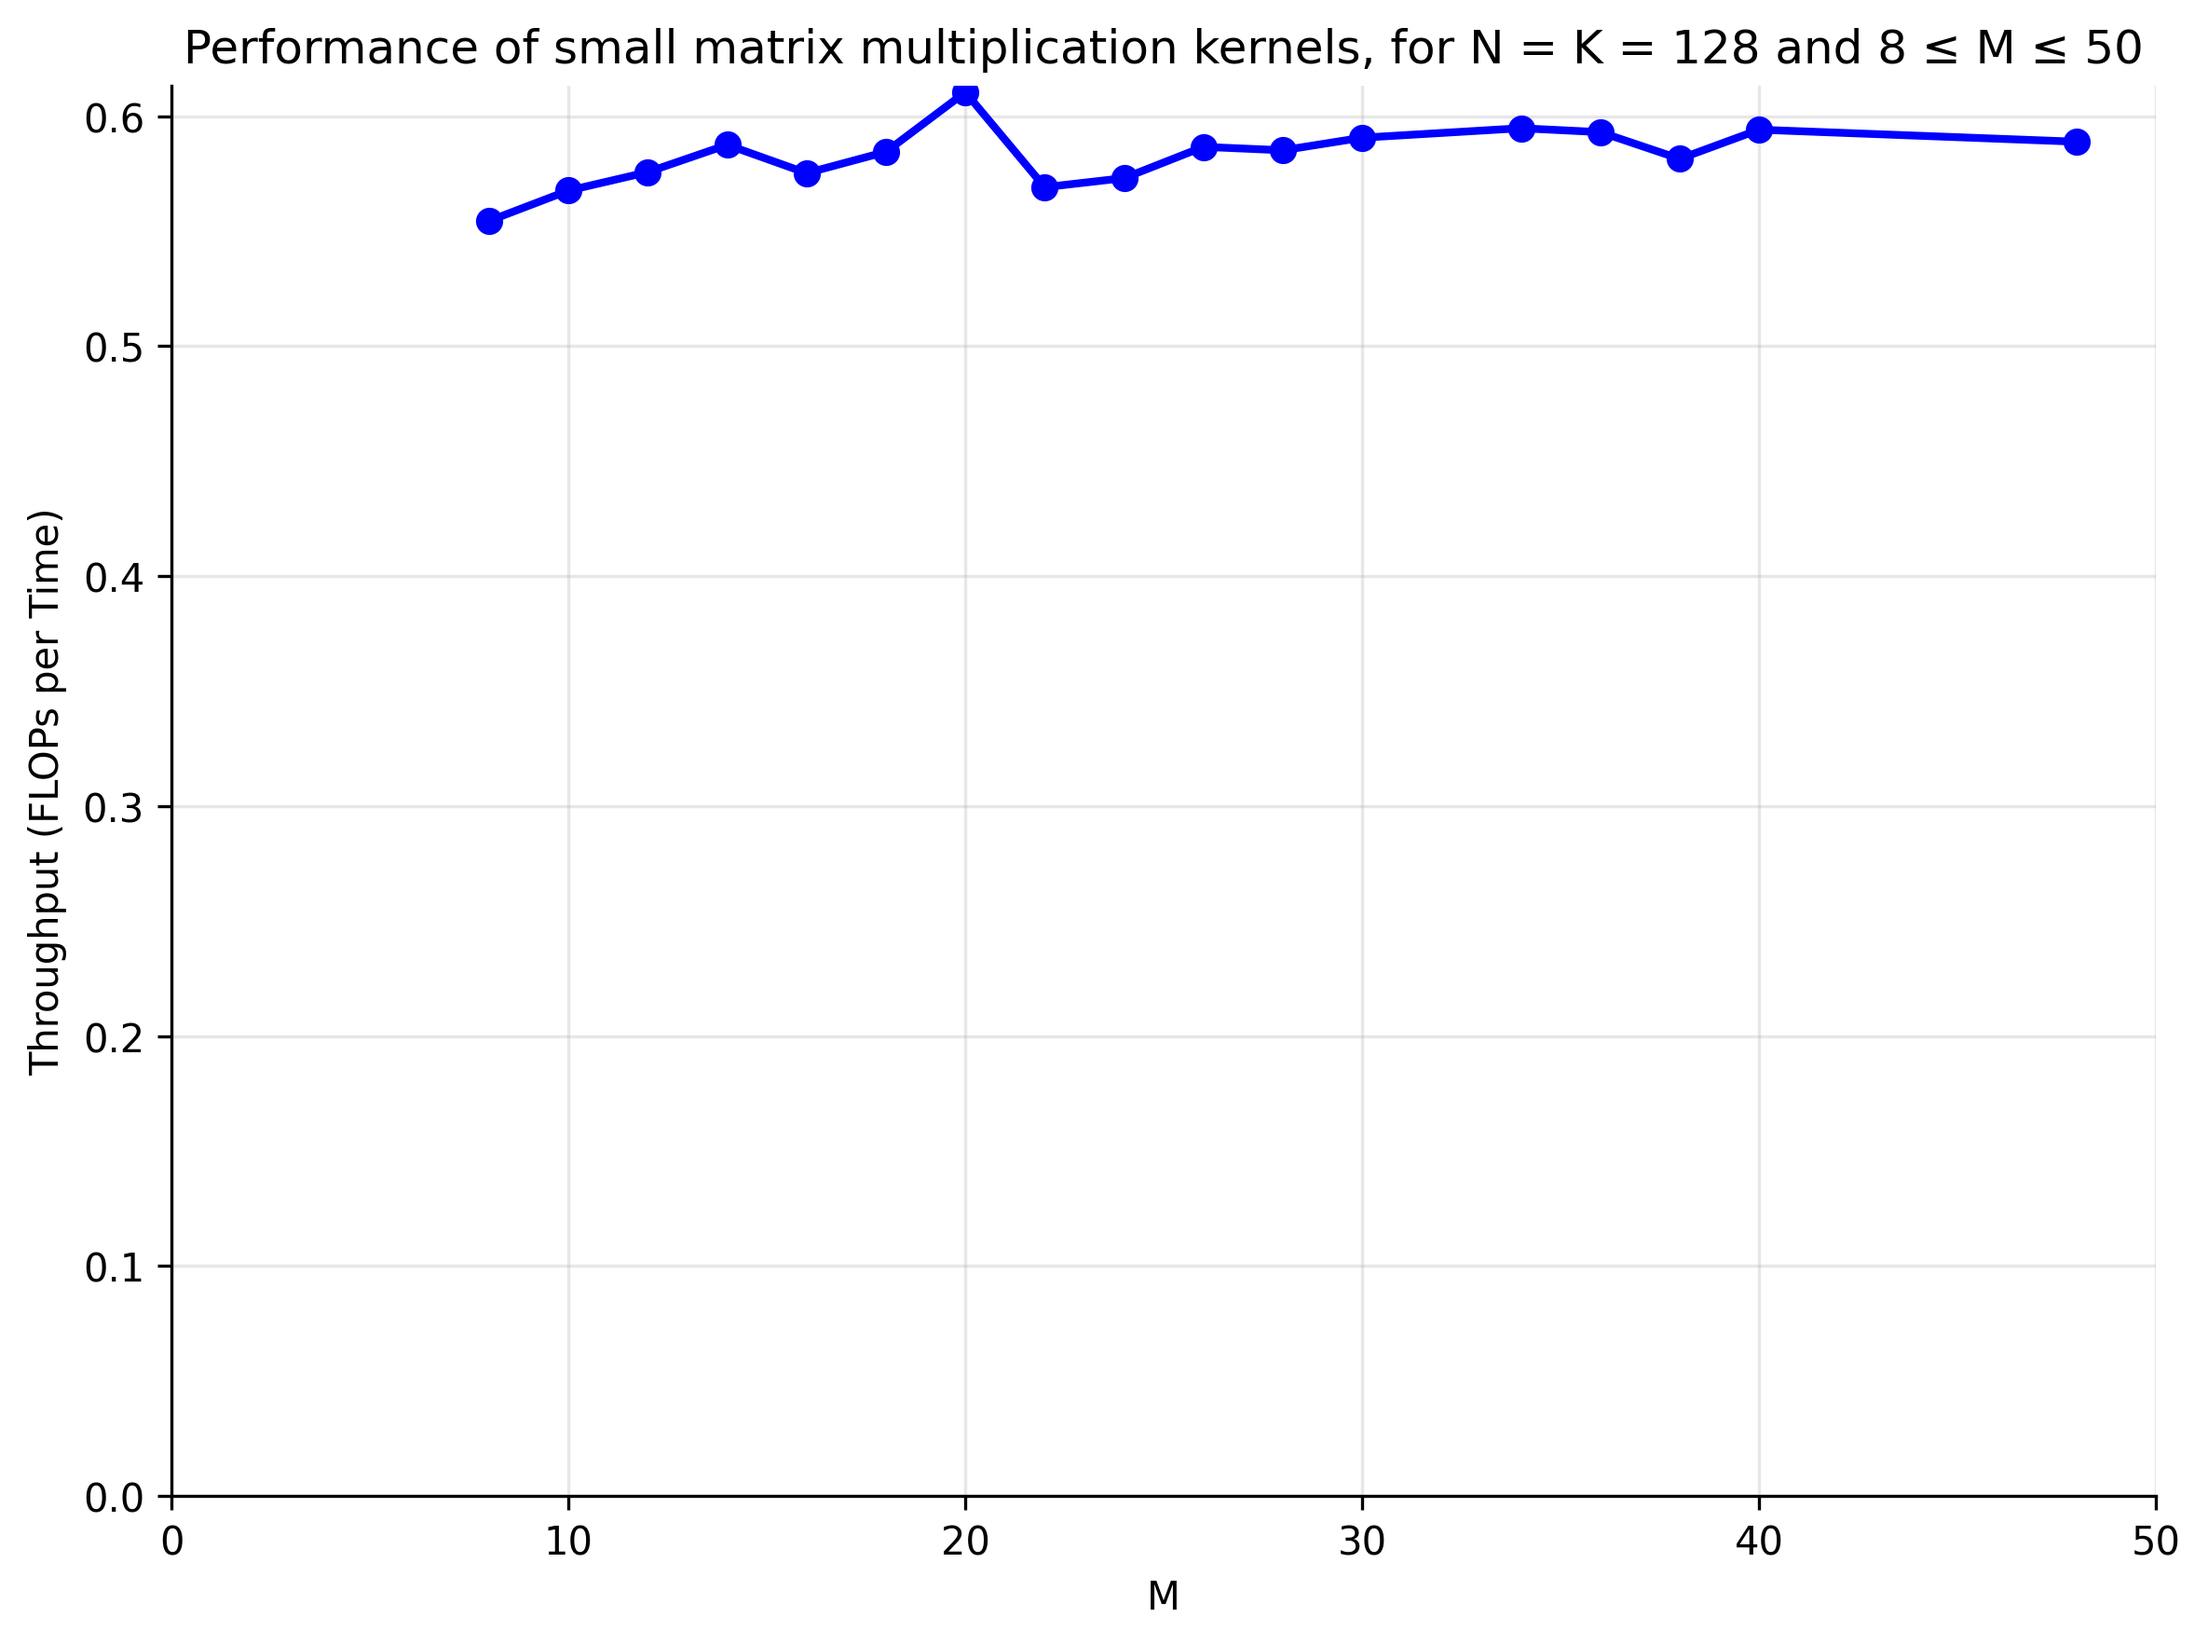
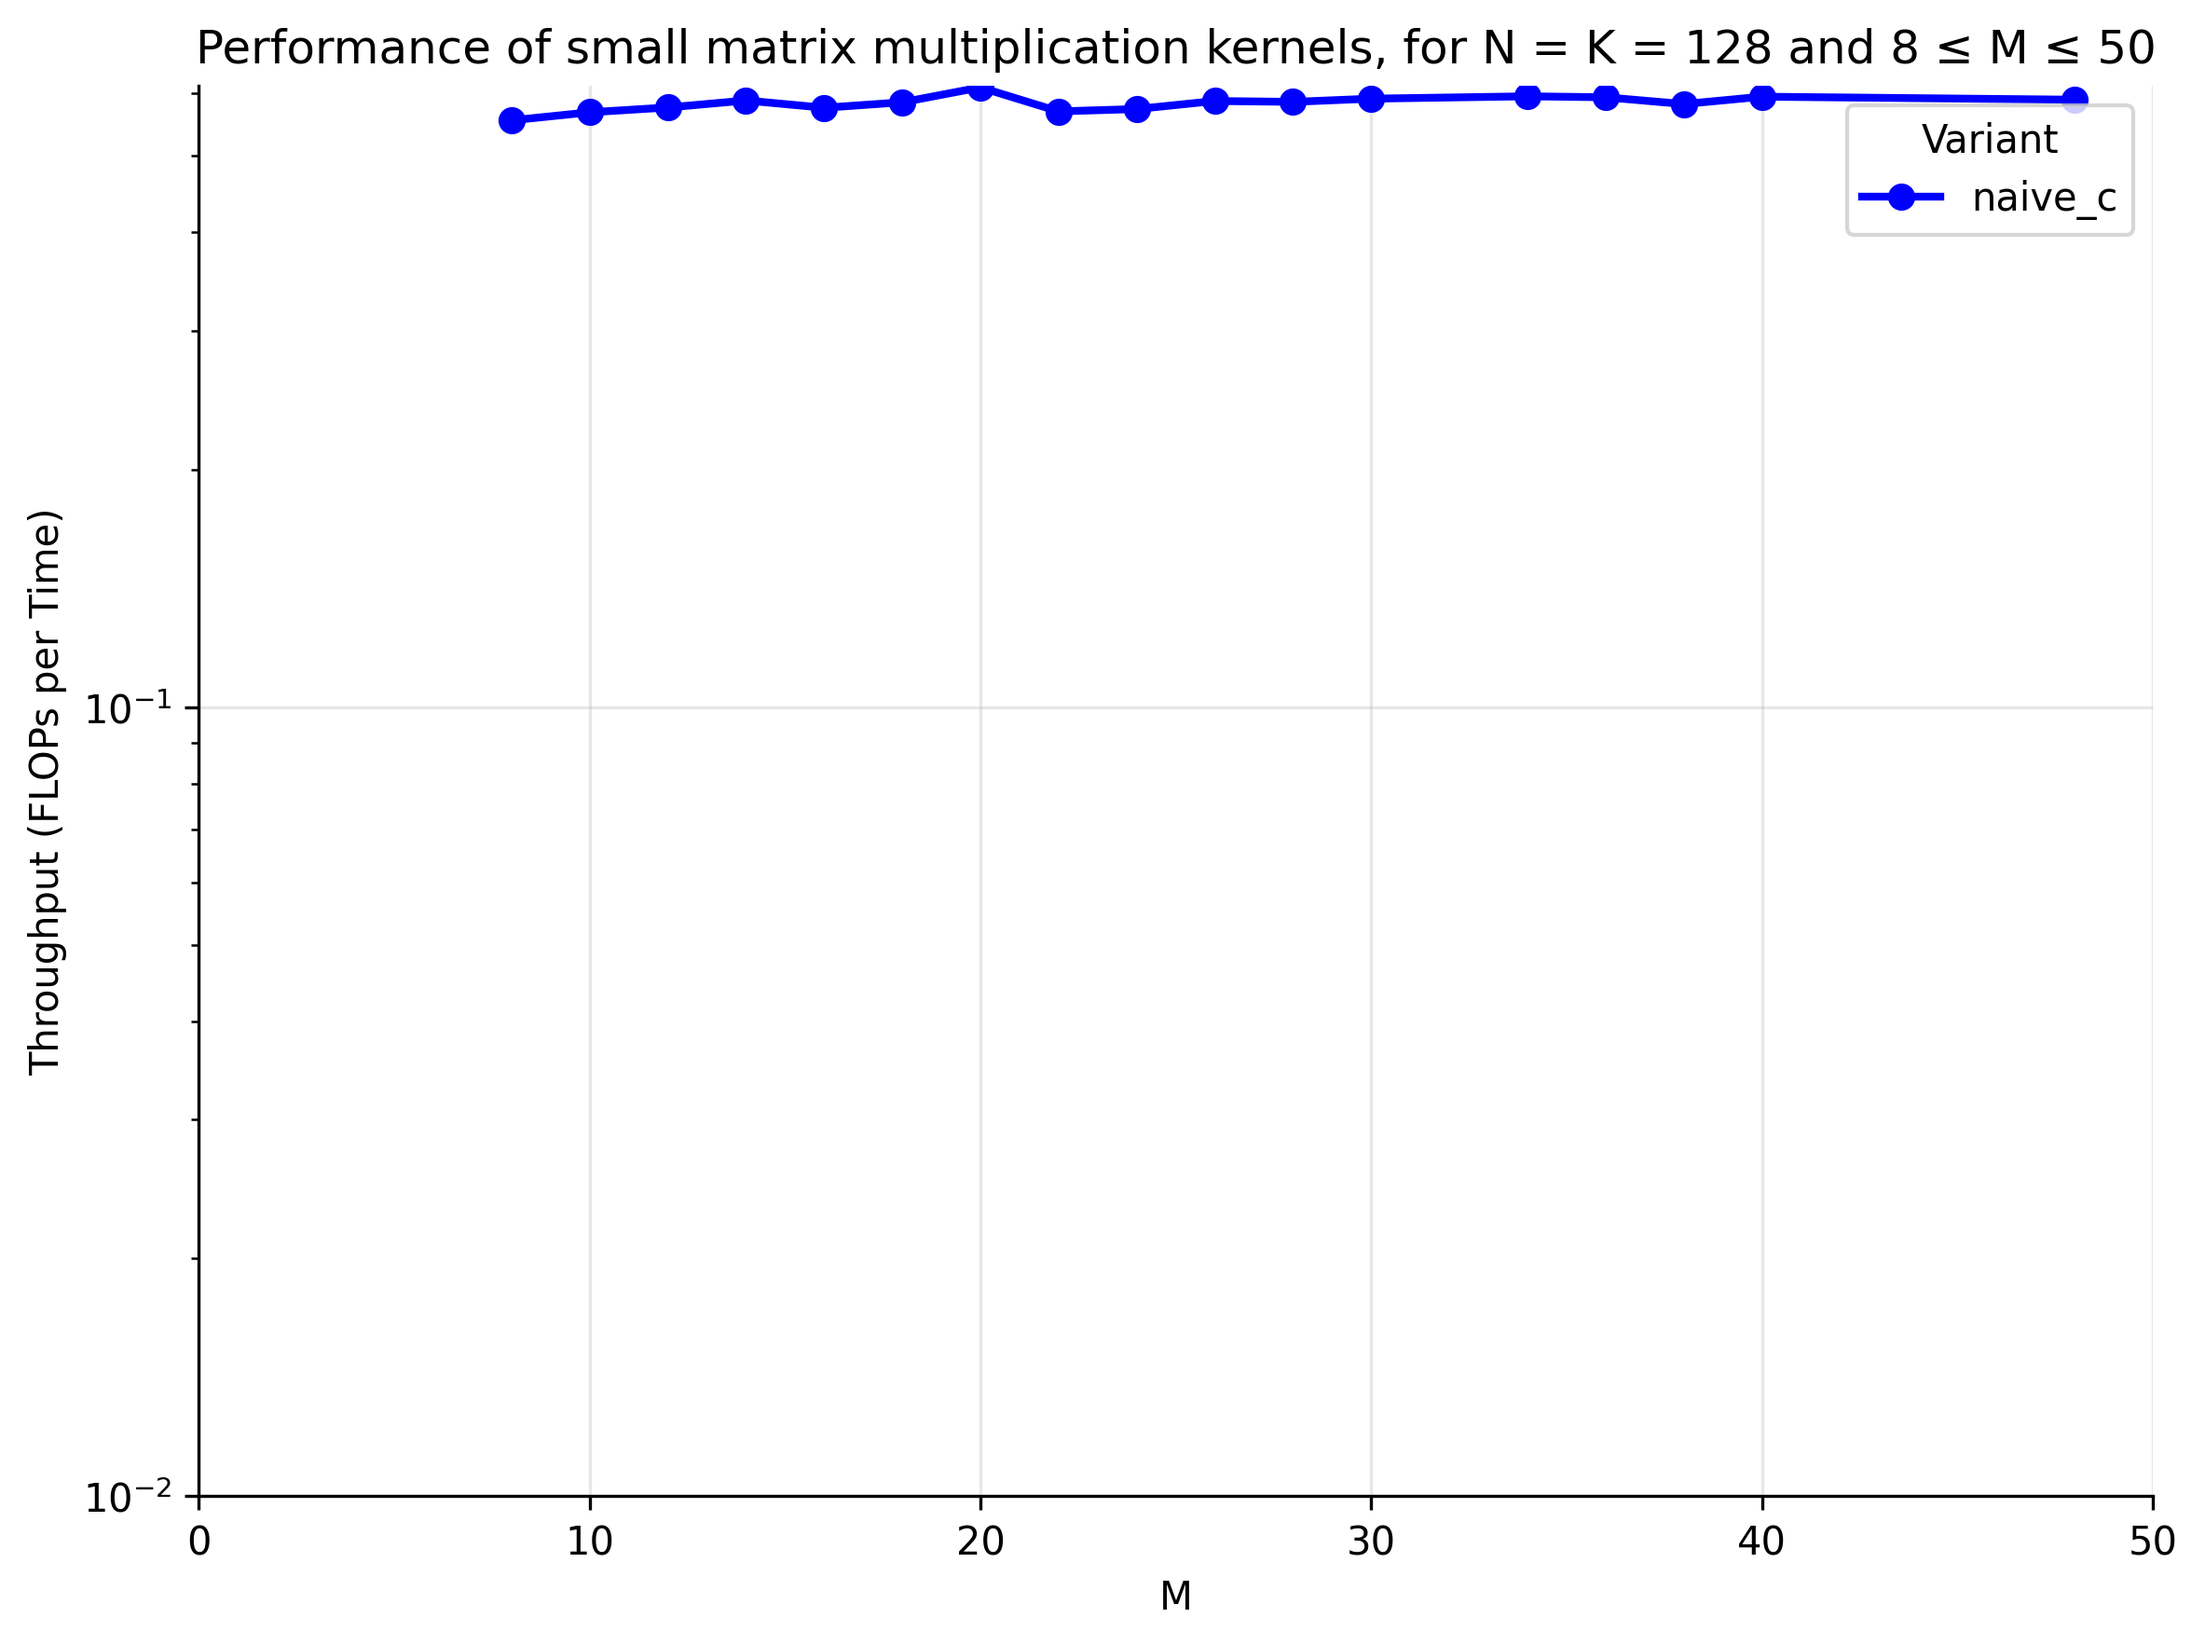
plot on y axis

diff --git a/src/plot_ttile.py b/src/plot_ttile.py
@@ -7,18 +7,36 @@ from pathlib import Path
 
 
 def plot_flops_per_time(df: pd.DataFrame, output_file: Path | None = None):
-    """Plot FLOPs per time with various visualizations."""
+    """Plot FLOPs per time for each kernel variant."""
 
     # Filter out invalid time values (negative or zero)
     valid_data = df[df["time"] > 0].copy()
-    # Note: invalid_data contains data points with negative or zero time values
-    # invalid_data = df[df["time"] <= 0]
 
-    # Calculate FLOPs per time (throughput) and plot only throughput vs M
+    # Calculate FLOPs per time (throughput)
     valid_data["throughput"] = valid_data["flops"] / valid_data["time"]
 
     fig, ax = plt.subplots(figsize=(8, 6))
-    ax.plot(valid_data["M"], valid_data["throughput"], "bo-", linewidth=2, markersize=6)
+
+    # Assign a color and marker for each variant
+    import itertools
+
+    colors = itertools.cycle(["b", "g", "r", "c", "m", "y", "k"])
+    markers = itertools.cycle(["o", "s", "D", "^", "v", ">", "<", "p", "*", "h", "x"])
+
+    for (variant, group), color, marker in zip(
+        valid_data.groupby("variant"), colors, markers
+    ):
+        group = group.sort_values("M")
+        ax.plot(
+            group["M"],
+            group["throughput"],
+            label=variant,
+            color=color,
+            marker=marker,
+            linewidth=2,
+            markersize=6,
+        )
+
     ax.set_xlabel("M")
     ax.set_ylabel("Throughput (FLOPs per Time)")
     ax.set_title(
@@ -26,9 +44,11 @@ def plot_flops_per_time(df: pd.DataFrame, output_file: Path | None = None):
     )
     ax.grid(True, alpha=0.3)
     ax.set_xlim(0, valid_data["M"].max() + 2)
-    ax.set_ylim(bottom=0)
+    ax.set_yscale("log")
+    ax.set_ylim(bottom=1e-2)  # Avoid log(0); adjust as needed for your data
     ax.spines["top"].set_visible(False)
     ax.spines["right"].set_visible(False)
+    ax.legend(title="Variant")
     plt.tight_layout()
 
     if output_file:
